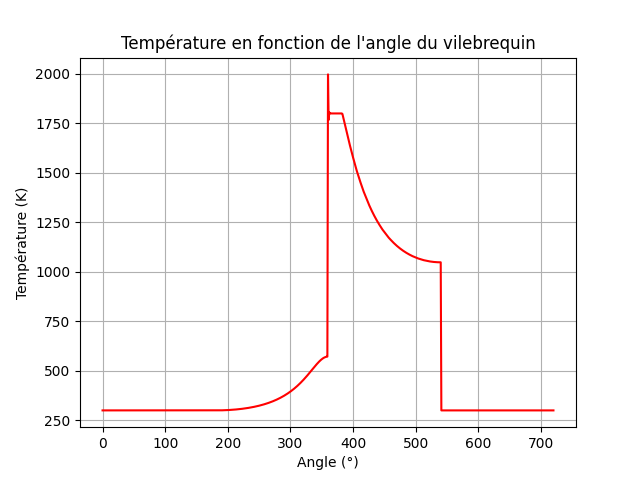
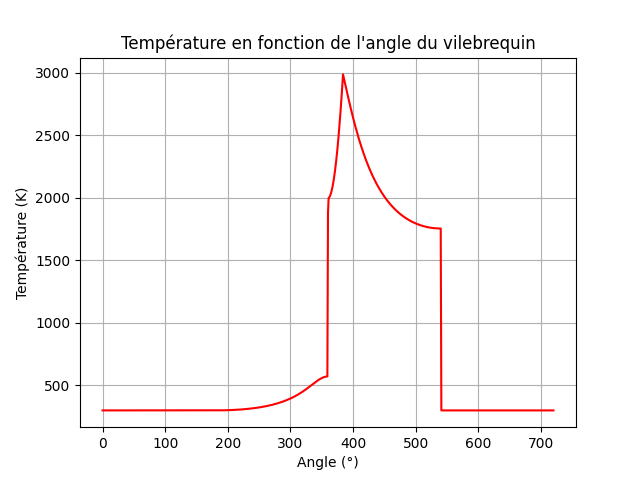
new

diff --git a/cycle_isobar/bes_isob.py b/cycle_isobar/bes_isob.py
@@ -41,41 +41,40 @@ P = [101325 for x in range(0,721)]
 T = [300 for x in range(0,721)]
 m = [3.87e-5 for x in range(0,721)]
 cv = 1111.57
-E =-2800000
+E = -2800000
 volume = [0 for x in range(0,721)]
 
 for i in range(0,len(angle)) : 
     if 0 < angle[i] < 181 :
         P[i]  = 101325 
         T[i] = 300
-        m[i] = P[i]*V[i]/(r*T[i])+ 3.87e-5 
+        m[i] = P[i]*V[i]/(r*T[i])*1.1
     if 180 < angle[i] < 360 :
         P[i] = P[i-1] *(V[i-1]/V[i])**(gamma)
         T[i] = T[i-1] * (V[i-1]/V[i])**(gamma-1)
-        m[i] = P[i]*V[i]/(r*T[i])+ 3.87e-5 
+        m[i] = P[i]*V[i]/(r*T[i])*1.1
     if angle[i] == 360 :
         P[i] = 7.5e6
         m[i] = m[i-1]
-        T[i] = P[i]*V[i]/(r*m[i])
-        m_brulee = (T[359] - T[360])* m[i]*cv/E 
+        T[i] = P[i]*V[i]/(290*m[i])
+       
+    if 360 < angle[i] < 541 :
+        m[i] = m[360]
+        P[i] = P[360]
+        m_brulee = (T[i-1] - T[i])* m[i]*cv/E 
         m_restante = m[i] - m_brulee
         print("Masse brûlée à 360° : ", m_brulee)
         print("Masse restante à 360° : ", m_restante)
-    if 360 < angle[i] < 541 :
-        m[i] = m[i-1]
-        P[i] = P[i-1]
-        T[i] = T[i-1] - m_restante/m[i]*E/cv
+        T[i] = T[i-1] - m_restante*E/(m[i]*cv)
         volume[i] = m[i]*r*T[i]/P[i]
-        if V[i] < volume[i] :
-            V[i] = volume[i]
-            T[i] = T[i-1] *(V[i-1]/V[i])**(gamma-1)
-        else : 
+        T[i] = P[i]*V[i]/(r*m[i])
+        if V[i] > 4.24e-5 :
             P[i] = P[i-1] *(V[i-1]/V[i])**(gamma)
             T[i] = T[i-1] *(V[i-1]/V[i])**(gamma-1)
     if angle[i] == 540 :
         m[i]= m[i-1]
     if 540 < angle[i] < 720 :
-        m[i] = P[i]*V[i]/(r*T[i])  + 3.87e-5
+        m[i] = P[i]*V[i]/(r*T[i])*1.1
 plt.figure(1)
 plt.plot(angle, P, label='P', color='b')
 plt.xlabel('Angle (°)')
@@ -85,7 +84,6 @@ plt.grid()
 plt.title('Pression en fonction de l\'angle du vilebrequin')
 plt.savefig('isob_pressure.png')
 print("Pression à 0, 180, 360 et 540° : ", P[0], P[180], P[360], P[540])
-
 print("Température à 359,360,361, 540° : ", T[359], T[360], T[361], T[540]) 
 
 plt.figure(2)
@@ -117,4 +115,9 @@ plt.grid()
 plt.title('Cycle thermodynamique à combustion isochore puis isobare')
 plt.savefig('isob_cycle.png')
 
-plt.show()
+plt.figure(5)
+plt.plot(angle,V, color='red')
+plt.plot(angle,volume, color='red')
+plt.xlabel('Angle (°)')
+plt.ylabel('Volume (m3)')
+plt.grid()

diff --git a/bes.py b/bes.py
@@ -50,9 +50,9 @@ for i in range(0,len(angle)) :
     if 0 < angle[i] < 180 :
         T[i]  = 300 
         P[i]  = 101325 
-        m[i] = P[i]*V[i]/(r*T[i])+ 3.87e-5 
+        m[i] = P[i]*V[i]/(r*T[i])*1.1
     if angle[i] == 180 :
-        m[i] = P[i]*V[i]/(r*T[i])+ 3.87e-5 
+        m[i] = P[i]*V[i]/(r*T[i])*1.1
     if 180 < angle[i] < 360 : 
         T[i] = T[i-1] *(V[i-1]/V[i])**(gamma-1)
         P[i] = P[i-1] *(V[i-1]/V[i])**(gamma)
@@ -70,7 +70,7 @@ for i in range(0,len(angle)) :
         P[i]  = 101325 
         m[i] = m[539]
     if 540 < angle[i] < 720 :
-        m[i] = P[i]*V[i]/(r*T[i])  + 3.87e-5
+        m[i] = P[i]*V[i]/(r*T[i])*1.1
 
    
 print("Température à 0, 180, 359,360 et 540° : ", T[0], T[180], T[359], T[360], T[540])
